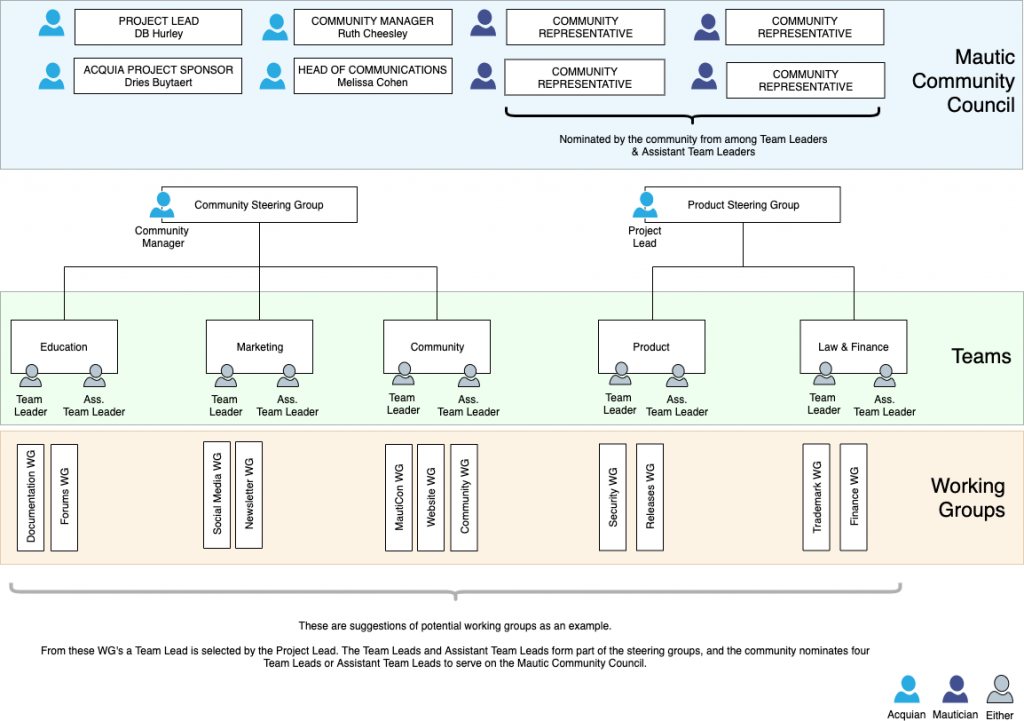
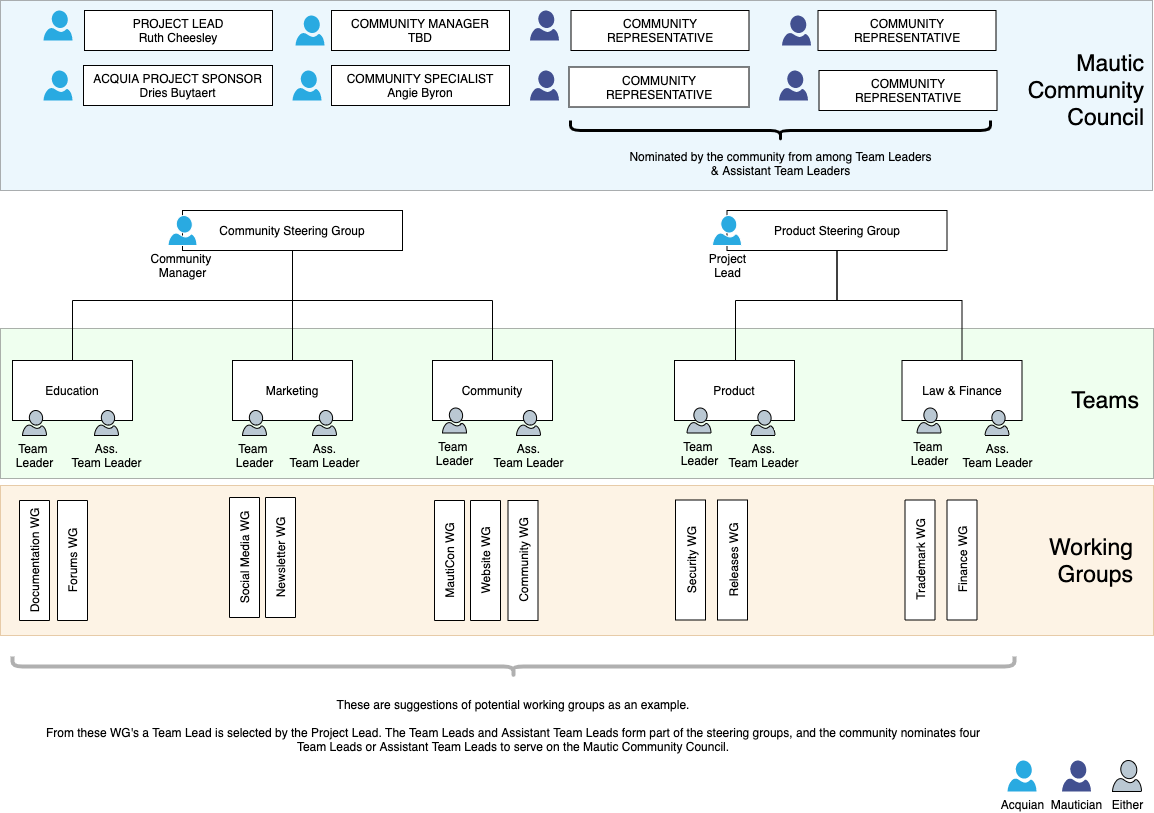
May 2020 updates and refactor to use link macros

diff --git a/pages/03.community-structure/01.Governance model/default.md b/pages/03.community-structure/01.Governance model/default.md
@@ -13,26 +13,28 @@ personenabled: false
 facebookenable: true
 ---
 
-Following the [acquisition of Mautic Inc. by Acquia in May 2019](https://www.mautic.org/blog/press/mautics-future-starts-now-exciting-announcement/) which included all assets relating to the Mautic community, a governance model was proposed and adopted following a period of community consultation.
+Following the [acquisition of Mautic Inc. by Acquia in May 2019][acquisition-announcemeent] which included all assets relating to the Mautic community, a governance model was proposed and adopted following a period of community consultation.
 
-Read more in the [initial proposal](https://www.mautic.org/blog/press/mautic-community-governance-model/) and the [subsequent follow up](https://www.mautic.org/blog/press/response-to-community-consultation-on-the-governance-model-proposal/) which addressed questions raised by the community. Subsequent adaptations were made during the Community Summit in November 2019 to arrive at the model outlined below.
+Read more in the [initial proposal][proposal] and the [subsequent follow up][follow-up] which addressed questions raised by the community. Subsequent adaptations were made during the Community Summit in November 2019 to arrive at the model outlined below.
+
+Further updates were made in May 2020 with the change in project leadership and introduction of the Founder role.
 
 The aim of the governance model is to enable and empower volunteers.  We want to encourage the community to take up responsibilities and have a say in the direction of the Mautic Open Source project, while working collaboratively with Acquia.
 
 ## Community Structure
 The structure of the community includes five teams, each led by a Team Lead and Assistant Team Lead, with working groups under them. 
-* [Community Team](/community-team)
-* [Education Team](/education-team)
-* [Legal & Finance Team](/legal-and-finance-team)
-* [Marketing Team](/marketing-team)
-* [Product Team](/product-team)
+* [Community Team][community-team]
+* [Education Team][education-team]
+* [Legal & Finance Team][legal-and-finance-team]
+* [Marketing Team][marketing-team]
+* [Product Team][product-team]
 
 Each of these teams are responsible for establishing and overseeing working groups within the team. 
 ![Image of the governance model detailing teams, working groups, steering groups and the community council
 ](Mautic-Community-Governance-4-1024x721.png)
 
 ## The Mautic Community Governance Model
-Initially the team leadership roles will be self-elected from within the team.  See [Leadership Team](/community-leadership/current-leadership-team) for the current post holders.
+Initially the team leadership roles will be self-elected from within the team.  See [Leadership Team][leadership-team] for the current post holders.
 
 Going forward the Team Lead and Assistant Team Lead positions will be selected by the Project Lead from the community-elected Working Group Leads and Assistant Working Group Leads.
 
@@ -54,17 +56,17 @@ The steering groups are an opportunity for the Team Leads of related areas in th
 ## The Mautic Community Council
 There will be a Community Council of 4 Acquians and 4 Mauticians to discuss issues which impact the Open Source project as a whole. 
 
-The four Acquians will initially be the Project Lead, Project Sponsor, Community Manager and Head of Communications.  These roles will be appointed by Acquia the Project Sponsor and may vary over time subject to the needs of the Council. 
+The four Acquians currently are the Project Lead, Project Sponsor, Community Manager and Snr. Director of Product & Community.  These roles will be appointed by Acquia, the Project Sponsor and may vary over time subject to the needs of the Council. 
 
-The Community Representatives will be elected on an annual basis by the community from the Team Leads and Assistant Team Leads who choose to stand for nomination. DB Hurley will retain a casting vote as Project Lead.
+The Community Representatives will be elected on an annual basis by the community from the Team Leads and Assistant Team Leads who choose to stand for nomination. The Project Lead will retain a casting vote.
 
 The Community Council will operate more on consensus than on votes, seeking agreement from the people who will have to do the work. 
 
-In the role of Project Lead, DB Hurley has the ability, with regard to Acquia employees, to ask people to work on specific projects, specific feature goals and specific bugs. He also has a casting vote on the Product Steering Group and the Community Council, should it come to a vote. This capacity is not used lightly. 
+The role of Project Lead has the ability, with regard to Acquia employees, to ask people to work on specific projects, specific feature goals and specific bugs. They also have a casting vote on the Product Steering Group and the Community Council, should it come to a vote. This capacity is not used lightly. 
 
 We believe that the community functions best when it can reach broad consensus about a way forward. However, it is not uncommon in the Open Source world for there to be multiple good arguments, no clear consensus, and for open questions to divide communities rather than enrich them. The debate absorbs the energy that might otherwise have gone towards the creation of a solution. 
 
-In many cases, there is no one ‘right’ answer, and what is needed is a decision more than a debate. The project lead acts to provide clear leadership on difficult issues, and set the pace for the project. 
+In many cases, there is no one ‘right’ answer, and what is needed is a decision more than a debate. The Project Lead acts to provide clear leadership on difficult issues, and set the pace for the project. 
 
 Some examples of how this casting vote might be called into effect could include:
 
@@ -85,8 +87,23 @@ Development is open and available to any member of the Mautic community. All fix
 ## Who are the Mautic core maintainers and what do they do?
 The Mautic Core team (who form part of the Product Team) is divided into 5 groups. Each team member can belong to only one group at a time. Any privilege listed for a particular group is also available to all higher priority groups. The Mautic Core groups, in descending order of priority are as follows:
 
-### The Project Lead – DB Hurley
-The project lead elects members into any other group, oversees project vision and direction, and makes decisions on proposed changes. The project leader listens to the counsel of trusted advisors and individuals respected for their contributions to Mautic.  The Project Lead is appointed by Acquia.
+### The Project Lead
+The Project Lead elects members into any other group, oversees project vision and direction, and makes decisions on proposed changes. The Project Lead listens to the counsel of trusted advisors and individuals respected for their contributions to Mautic.  The Project Lead is appointed by Acquia.
+
+The full responsibilities and expectations of the Project Lead are detailed [here][project-lead-definiton].
+
+### The Community Manager
+The Community Manager supports the community, education and marketing teams.  The primary focus of this role is the health and engagement of the community. This includes supporting the community structures, helping team leads organising and managing their teams and working groups.
+
+They are the face of the community, and the place where the buck stops in any community related issues.
+
+The community manager also has primary responsibility for supporting in-person events and meetups, global events like Mauticon, and being a bridge between the community and Acquia.
+
+The full responsibilities and expectations of the Community Manager are detailed [here][cm-definition].
+
+### The Project Founder
+
+Our Project Founder is DB Hurley.  He remains an ambassador for the Mautic project, and may be asked to speak and represent the project at events. There are no responsibilities or expectations in the governance model specific to the Project Founder.  They do not have any voting rights, or any involvement in the governance model. 
 
 ### Core Team
 #### Release Leader
@@ -165,6 +182,21 @@ And the Legal team’s might look like this:
 
 ## Credits:
 Inspiration and examples have been drawn from several Open Source projects and governance models in preparing this proposed model, including:
-[Drupal](https://www.drupal.org/governance)
-[Ubuntu](https://ubuntu.com/community/governance)
-[Joomla](https://www.opensourcematters.org/organisation.html)
+[Drupal][drupal-governance]
+[Ubuntu][ubuntu-governance]
+[Joomla][joomla-governance]
+
+[acquisition-announcement]: <https://www.mautic.org/blog/press/mautics-future-starts-now-exciting-announcement/>
+[proposal]: <https://www.mautic.org/blog/press/mautic-community-governance-model/>
+[follow-up]: <https://www.mautic.org/blog/press/response-to-community-consultation-on-the-governance-model-proposal/>
+[community-team]: </community-team>
+[education-team]: </education-team>
+[legal-and-finance-team]: </legal-and-finance-team>
+[marketing-team]: </marketing-team>
+[product-team]: </product-team> 
+[leadership-team]: </community-leadership/current-leadership-team>
+[project-lead-definition]: <https://contribute.mautic.org/community-leadership/leadership-role-definitions#project-lead>
+[cm-definition]: <https://contribute.mautic.org/community-leadership/leadership-role-definitions#community-manager>
+[drupal-governance]: <https://www.drupal.org/governance>
+[ubuntu-governance]: <https://ubuntu.com/community/governance>
+[joomla-governance]: <https://www.opensourcematters.org/organisation.html>
